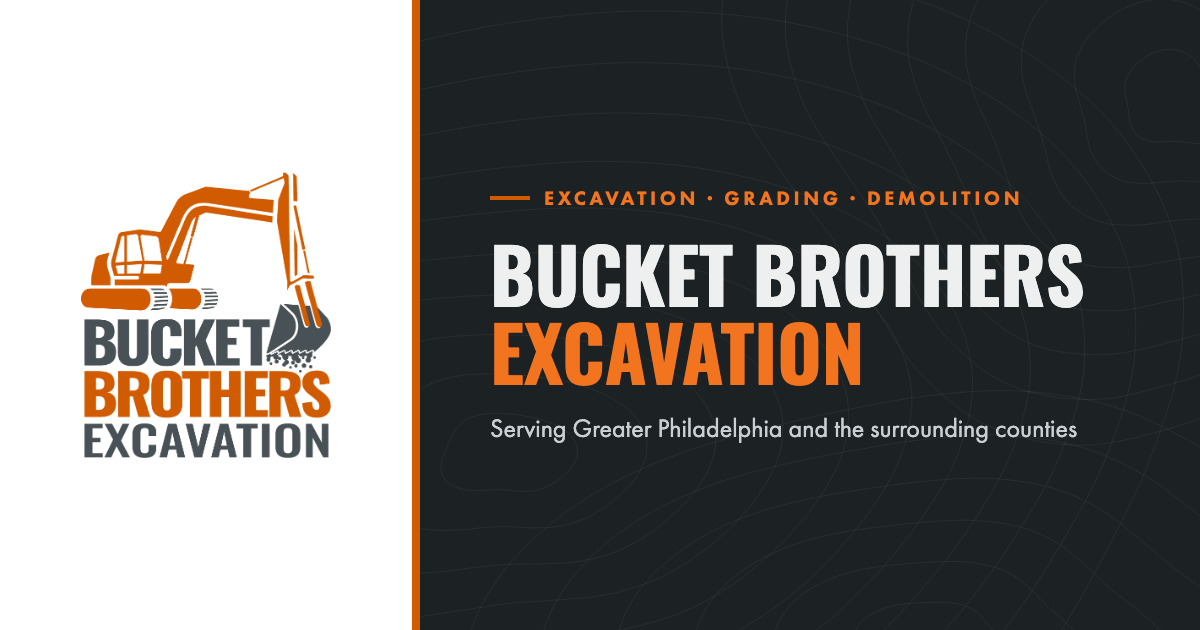
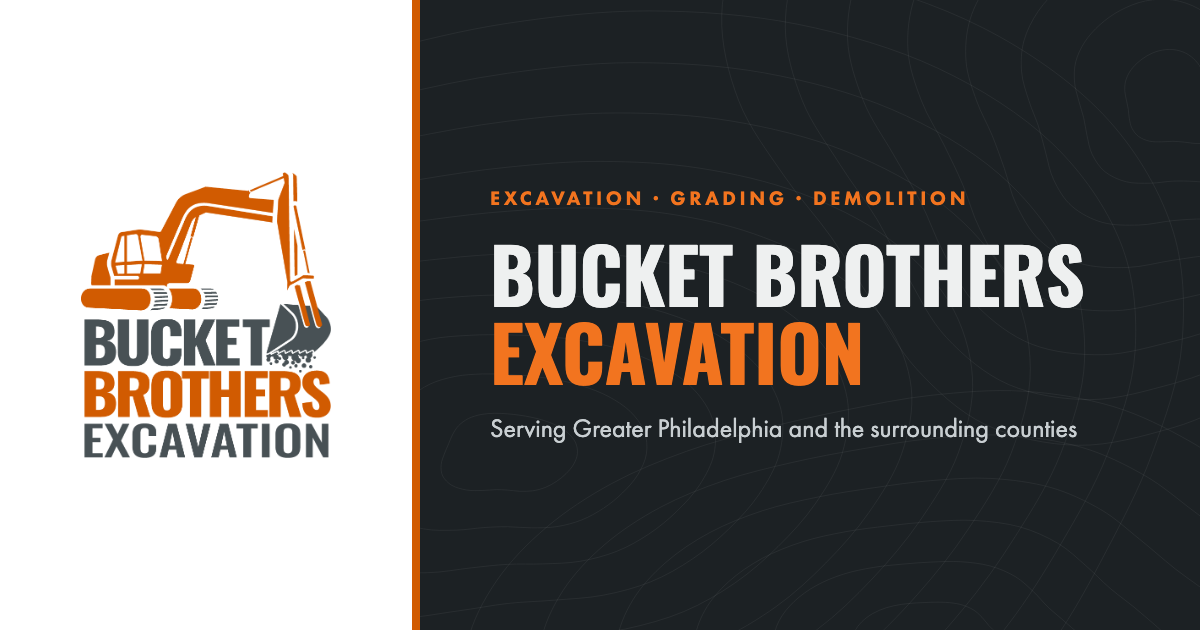
small changes

Changed region(s): [[0.4008, 0.3016, 0.8633, 0.3317]]

diff --git a/style.css b/style.css
@@ -63,6 +63,10 @@ a {
 }
 a:hover { color: var(--orange-dark); }
 
+/* Phone numbers inside sentences: orange text instead of an underline */
+p a[href^="tel:"] { color: var(--orange-dark); font-weight: 600; text-decoration: none; white-space: nowrap; }
+p a[href^="tel:"]:hover { font-weight: 800; }
+
 h1, h2, h3, h4 {
   font-family: var(--font-display);
   font-weight: 600;
@@ -109,13 +113,11 @@ p { margin: 0 0 1em; text-wrap: pretty; }
 /* ---------- Type helpers ---------- */
 
 .eyebrow {
-  display: flex; align-items: center; gap: .75rem;
   font-family: var(--font-body); font-weight: 700; font-size: .8125rem;
   letter-spacing: .16em; text-transform: uppercase;
   color: var(--orange-dark);
   margin: 0 0 1.1rem;
 }
-.eyebrow::before { content: ""; flex: none; width: 2rem; height: 3px; background: var(--orange); }
 .on-dark .eyebrow, .bg-dark .eyebrow { color: var(--orange-hi); }
 
 .lead { font-size: clamp(1.2rem, 1.6vw, 1.4rem); line-height: 1.5; max-width: 34em; }
